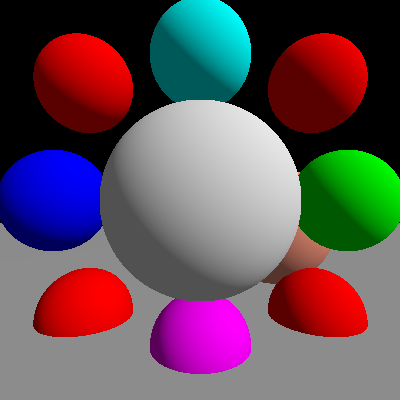
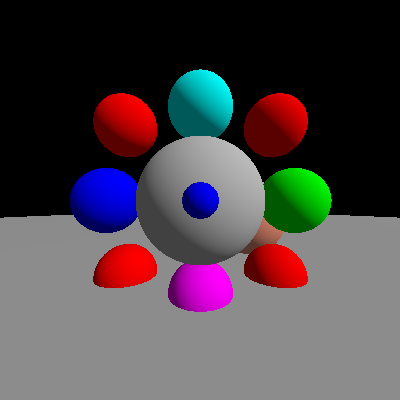
a03

diff --git a/src/cgg/RayTracer.java b/src/cgg/RayTracer.java
@@ -1,5 +1,6 @@
 package cgg;
 
+import cgg.LightSource.LightInfo;
 import java.util.List;
 import tools.*;
 import static tools.Functions.*;
@@ -8,39 +9,98 @@ public final class RayTracer implements Sampler {
 
     private final SimpleCamera camera;
     private final List<Sphere> spheres;
+    private final List<LightSource> lights;
+    private static final double EPSILON = 1e-5;
 
-    public RayTracer(SimpleCamera camera, List<Sphere> spheres) {
+    public RayTracer(SimpleCamera camera, List<Sphere> spheres, List<LightSource> lights) {
         this.camera = camera;
         this.spheres = spheres;
+        this.lights = lights;
+    }
+
+    public RayTracer(SimpleCamera camera, List<Sphere> spheres) {
+        this(camera, spheres, List.of(
+            new DirectionalLight(vec3(1, 1, 0.7), Color.white)
+        ));
     }
 
     @Override
     public Color getColor(Vec2 pixel) {
-        // 1. Strahl erzeugen
         Ray ray = camera.generateRay(pixel);
+        Hit hit = findClosestHit(ray);
+        
+        if (hit == null) {
+            return Color.black;
+        }
+        
+        return shade(hit);
+    }
 
+    private Hit findClosestHit(Ray ray) {
         Hit closestHit = null;
         double closestT = Double.POSITIVE_INFINITY;
 
-        for (Sphere s : spheres) {
-            Hit h = s.intersect(ray);
-            if (h != null && h.t() < closestT) {
-                closestT = h.t();
-                closestHit = h;
+        for (Sphere sphere : spheres) {
+            Hit hit = sphere.intersect(ray);
+            if (hit != null && hit.t() < closestT) {
+                closestT = hit.t();
+                closestHit = hit;
             }
         }
+        return closestHit;
+    }
 
-        if (closestHit == null) {
-            // Background color
-            //return color(0.7, 0.8, 1.0);
-            return Color.black;
+    private Color shade(Hit hit) {
+       
+        Color C = hit.color();
+        Color k_a = multiply(0.1, C);
+        Color k_d = multiply(0.6, C);
+        Color k_s = color(0.3, 0.3, 0.3);
+        double k_e = 100;
+        
+        Color result = k_a;
+        
+        Vec3 viewDir = normalize(subtract(hit.point(), vec3(0,0,0)));
+        for (LightSource light : lights) {
+            LightInfo lightInfo = light.info(hit.point());
+            Vec3 lightDir = lightInfo.direction();
+            Color lightIntensity = lightInfo.intensity();
+            double maxDistance = lightInfo.maxDistance();
+            
+            if (isVisible(hit.point(), lightDir, maxDistance)) {
+                double diffuseFactor = Math.max(0.0, dot(hit.normal(), lightDir));
+                
+                if (diffuseFactor > 0) {
+                    Color diffuse = multiply(diffuseFactor, multiply(k_d, lightIntensity));
+                    
+                    // Spiegelungsberechnung
+                    Vec3 reflectDir = reflect(negate(lightDir), hit.normal());
+                    double specularFactor = Math.pow(Math.max(0.0, dot(reflectDir, viewDir)), k_e);
+                    Color specular = multiply(specularFactor, multiply(k_s, lightIntensity));
+                    
+                    result = add(result, add(diffuse, specular));
+                }
+            }
         }
+        
+        return result;
+    }
 
-        Vec3 lightDir = normalize(vec3(1, 1, 0.7));
-        double diff = Math.max(0.0, dot(lightDir, closestHit.normal()));
-        Color ambient = multiply(0.1, closestHit.color());
-        Color diffuse = multiply(diff * 0.9, closestHit.color());
-        return add(ambient, diffuse);
+    private boolean isVisible(Vec3 point, Vec3 lightDir, double maxDistance) {
+        Vec3 offsetPoint = add(point, multiply(lightDir, EPSILON));
+        Ray shadowRay = new Ray(offsetPoint, lightDir, EPSILON, maxDistance - EPSILON);
+        
+        for (Sphere sphere : spheres) {
+            Hit hit = sphere.intersect(shadowRay);
+            if (hit != null) {
+                return false;
+            }
+        }
+        return true;
+    }
 
+    // Spiegelungsberechnung: r = -s + 2(s·n)n
+    private Vec3 reflect(Vec3 s, Vec3 n) {
+        return subtract(multiply(n, 2 * dot(s, n)), s);
     }
 }

diff --git a/src/cgg/A03.java b/src/cgg/A03.java
@@ -1,38 +1,35 @@
 package cgg;
 
 import java.util.*;
-import tools.*;
+import tools.Color;
 import static tools.Functions.*;
 
-public class A02 {
+public class A03 {
     public static void main(String[] args) {
         int width = 400;
         int height = 400;
 
-        // Kamera erstellen
-        var camera = new SimpleCamera(95, width, height);
+        var camera = new SimpleCamera(75, width, height);
+        List<Sphere> spheres = createOptimalSpheres();
+        List<LightSource> lights = createOptimalLights();
 
-        // Test erstellen
-        List<Sphere> spheres = createTestSpheres();
-        var tracer = new RayTracer(camera, spheres);
-
+        var tracer = new RayTracer(camera, spheres, lights);
         var image = new Image(width, height);
+
         for (int x = 0; x < width; x++) {
             for (int y = 0; y < height; y++) {
                 image.setPixel(x, y, tracer.getColor(vec2(x, y)));
             }
         }
 
-        image.writePng("a02");
-    }
+        image.writePng("a03");
 
-    private static List<Sphere> createTestSpheres() {
+    } 
+
+    private static List<Sphere> createOptimalSpheres() {
         List<Sphere> spheres = new ArrayList<>();
-
-        // Kugeln
-        spheres.add(new Sphere(vec3(0, 0, -3), 1.0, Color.gray)); // m
+        spheres.add(new Sphere(vec3(0, 0, -3), 1.0, color(1.0, 1.0, 1.0)));
         spheres.add(new Sphere(vec3(2, 0, -4), 0.7, Color.green)); // r
-        spheres.add(new Sphere(vec3(0, 0, -1), 0.1, Color.blue)); // L
         spheres.add(new Sphere(vec3(-2, 0, -4), 0.7, Color.blue));
         spheres.add(new Sphere(vec3(-2, 2, -5), 0.8, Color.red)); // L
         spheres.add(new Sphere(vec3(-2, -2, -5), 0.8, Color.red)); // L
@@ -40,12 +37,21 @@ public class A02 {
         spheres.add(new Sphere(vec3(0, -2, -4), 0.7, Color.magenta)); // m
         spheres.add(new Sphere(vec3(2, 2, -5), 0.8, Color.red)); // r
         spheres.add(new Sphere(vec3(2, -2, -5), 0.8, Color.red)); // r
-
         spheres.add(new Sphere(vec3(0, 0, -3), 1.0, color(0.8, 0.8, 0.8)));
-        //spheres.add(new Sphere(vec3(-2, 1, -5), 0.8, color(0.2, 0.6, 0.9)));
-        spheres.add(new Sphere(vec3(1.5, -0.5, -6), 1.2, color(0.9, 0.3, 0.2)));
         spheres.add(new Sphere(vec3(0, -1000, 0), 998, color(0.4, 0.4, 0.4))); // Boden
-
+        
         return spheres;
+    }
+
+    private static List<LightSource> createOptimalLights() {
+        List<LightSource> lights = new ArrayList<>();
+
+        // Licht 1: Von links
+        lights.add(new DirectionalLight(normalize(vec3(-3, 8, 5)), color(2.0, 0, 0)));
+
+        // Licht 2: Von links
+        lights.add(new DirectionalLight(normalize(vec3(3, 2.2, 2)), color(1.0, 1.0, 1.0)));
+
+        return lights;
     }
 }

diff --git a/src/cgg/PointLight.java b/src/cgg/PointLight.java
@@ -1,0 +1,25 @@
+package cgg;
+
+import tools.*;
+import static tools.Functions.*;
+
+public class PointLight implements LightSource {
+    private final Vec3 position;
+    private final Color intensity;
+    
+    public PointLight(Vec3 position, Color intensity) {
+        this.position = position;
+        this.intensity = intensity;
+    }
+    
+    @Override
+    public LightInfo info(Vec3 x) {
+        Vec3 toLight = subtract(position, x);
+        double distance = length(toLight);
+        Vec3 direction = normalize(toLight);
+        
+        Color attenuatedIntensity = multiply(1.0 / (distance * distance), intensity);
+        
+        return new LightInfo(direction, attenuatedIntensity, distance);
+    }
+}

diff --git a/src/cgg/A01.java b/src/cgg/A01.java
@@ -8,18 +8,13 @@ public class A01 {
   public static void main(String[] args) {
     int width = 400;
     int height = 400;
-
-    // This class instance defines the contents of the image.
     var circles = new Circles(9, width, height);
-
-    // Creates an image and iterates over all pixel positions inside the image.
     var image = new Image(width, height);
     for (int x = 0; x != width; x++)
       for (int y = 0; y != height; y++)
-        // Sets the color for one particular pixel.
+       
         image.setPixel(x, y, circles.getColor(vec2(x, y)));
 
-    // Write the image to disk.
     image.writePng("a01");
   }
 }

diff --git a/src/cgg/ConstantColor.java b/src/cgg/ConstantColor.java
@@ -3,18 +3,14 @@ package cgg;
 
 import tools.*;
  
- 
-// Represents the contents of an image. Provides the same color for all pixels.
 public class ConstantColor implements Sampler {
     private final Color color;
 
-    // Initializes color.
     public ConstantColor(Color color) {
         this.color = color;
     }
-
-    // Returns the color for the given position. All positions return the same
-    // constant color.
+    
+    @Override
     public Color getColor(Vec2 point) {
         return color;
     }

diff --git a/src/cgg/DirectionalLight.java b/src/cgg/DirectionalLight.java
@@ -1,0 +1,19 @@
+package cgg;
+
+import tools.*;
+import static tools.Functions.*;
+
+public class DirectionalLight implements LightSource {
+    private final Vec3 direction;
+    private final Color intensity;
+    
+    public DirectionalLight(Vec3 direction, Color intensity) {
+        this.direction = normalize(direction);
+        this.intensity = intensity;
+    }
+    
+    @Override
+    public LightInfo info(Vec3 x) {
+        return new LightInfo(direction, intensity, Double.POSITIVE_INFINITY);
+    }
+}

diff --git a/src/cgg/Circles.java b/src/cgg/Circles.java
@@ -26,7 +26,7 @@ public class Circles implements Sampler{
             double radius = 10 + (i * 15);
 
             Color color = new Color((double) col / gridSize, (double) row / gridSize, 0.8);
-            //
+            
             circles.add(new Circle(new Vec2(x, y), radius, color));
         }
         circles.sort((c1, c2) -> Double.compare(c1.getRadius(), c2.getRadius()));

diff --git a/src/cgg/LightSource.java b/src/cgg/LightSource.java
@@ -1,0 +1,9 @@
+package cgg;
+
+import tools.*;
+
+public interface LightSource {
+    public record LightInfo(Vec3 direction, Color intensity, double maxDistance) {}
+    
+    LightInfo info(Vec3 x);
+}
